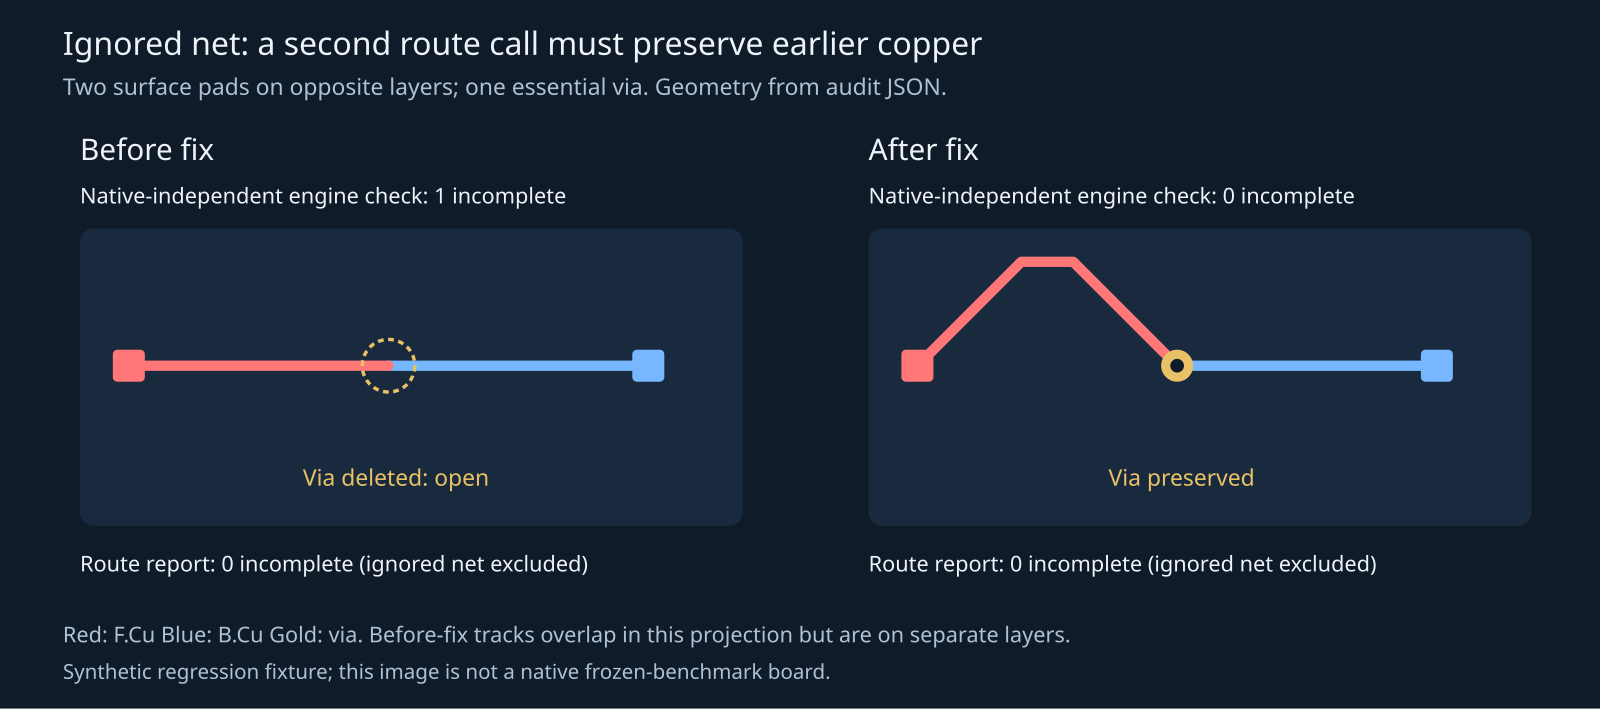
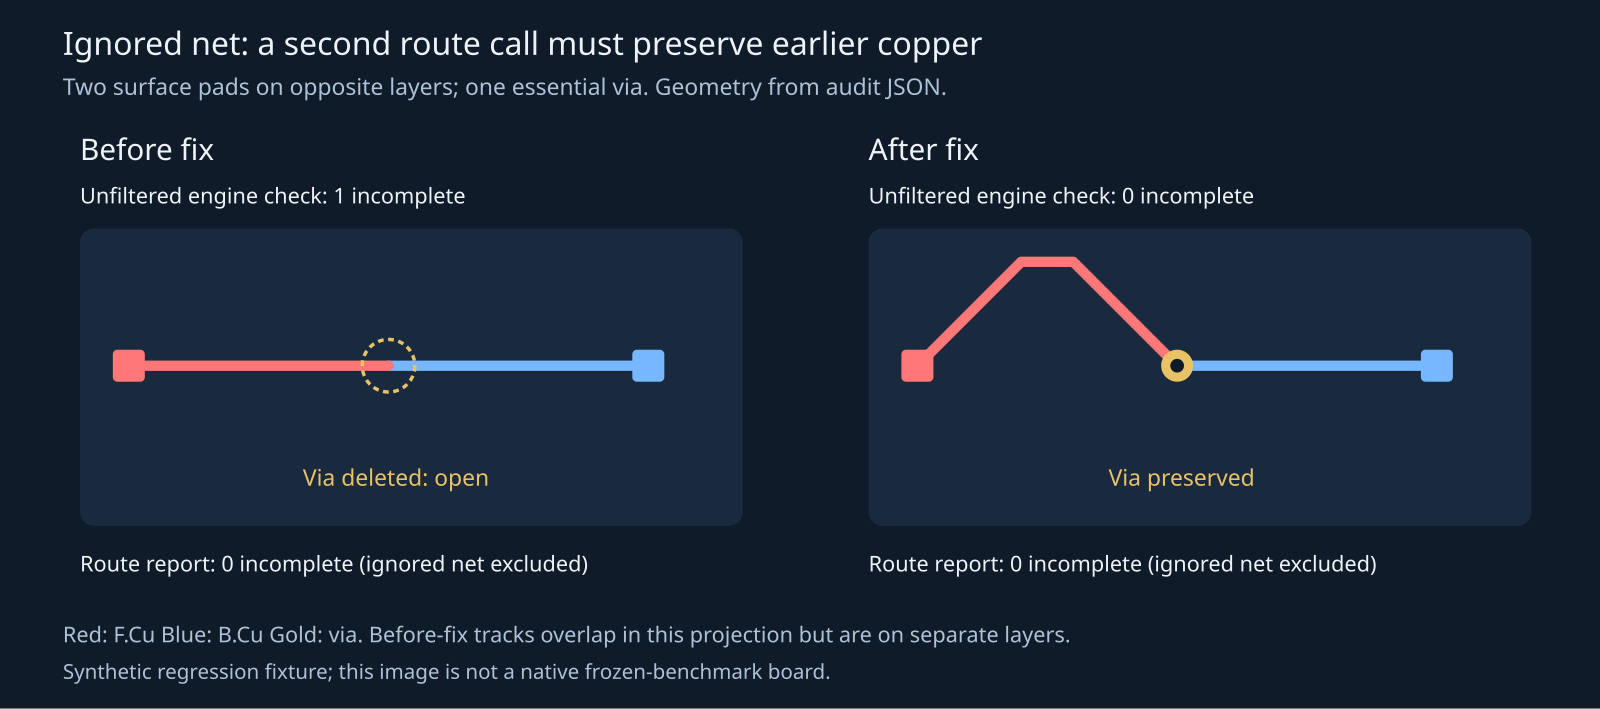
Document ignored net regression evidence and reproduction

Changed region(s): [[0.5312, 0.2482, 0.8438, 0.3103], [0.0625, 0.2482, 0.3438, 0.3103]]

diff --git a/docs/pr-assets/agent-fab-router-fix-ignored-optimisation/compare.py b/docs/pr-assets/agent-fab-router-fix-ignored-optimisation/compare.py
@@ -1,0 +1,37 @@
+"""python3 compare.py BASELINE_RUN CANDIDATE_RUN SOURCE_DIR OUTPUT_JSON"""
+import hashlib
+import json
+from pathlib import Path
+import statistics
+import sys
+
+before, after, source, output = map(Path, sys.argv[1:])
+controls = [json.loads((p / 'controls.json').read_text()) for p in (before, after)]
+for c in controls:
+    assert c['complete'] and c['controls_preserved'], 'incomplete or modified controls'
+for key in ('inputs_sha256', 'configs_sha256', 'harness_sha256', 'runtime_sha256', 'allowed_cpus', 'seeds', 'order'):
+    assert controls[0][key] == controls[1][key], key
+for name, expected in controls[1]['candidate']['source_sha256'].items():
+    assert hashlib.sha256((source / name).read_bytes()).hexdigest() == expected, name
+key = lambda r: (r['case'], r['seed'])
+a, b = [sorted(json.loads((p / 'results.json').read_text()), key=key) for p in (before, after)]
+assert len(a) == len(b) == 78
+assert [key(r) for r in a] == [key(r) for r in b]
+fields = ('passed', 'opens', 'new_errors', 'vias', 'length_mm')
+differences = [{'case': x['case'], 'seed': x['seed'], 'fields': {f: [x[f], y[f]] for f in fields if x[f] != y[f]}}
+               for x, y in zip(a, b) if any(x[f] != y[f] for f in fields)]
+assert not differences, differences
+
+def summary(rows):
+    return dict(runs=len(rows), passed=sum(r['passed'] for r in rows),
+                valid_cases_3of3=sum(all(r['passed'] for r in rows if r['case'] == c) for c in {r['case'] for r in rows}),
+                opens=sum(r['opens'] for r in rows), new_errors=sum(r['new_errors'] for r in rows),
+                median_route_s=statistics.median(r['seconds'] for r in rows))
+data = dict(baseline_source=controls[0]['candidate']['commit'], candidate_source='cd3ba3f',
+            candidate_recorded_head=controls[1]['candidate']['commit'],
+            source_hashes_verified=True, controls_matched=True, before=summary(a), after=summary(b), differences=differences,
+            source_sha256=controls[1]['candidate']['source_sha256'],
+            cases=[dict(case=c, before=summary([r for r in a if r['case'] == c]), after=summary([r for r in b if r['case'] == c]))
+                   for c in sorted({r['case'] for r in a})])
+output.write_text(json.dumps(data, indent=2) + '\n')
+print(json.dumps({k: data[k] for k in ('before', 'after', 'differences')}, indent=2))

diff --git a/docs/pr-assets/agent-fab-router-fix-ignored-optimisation/render.py b/docs/pr-assets/agent-fab-router-fix-ignored-optimisation/render.py
@@ -17,7 +17,7 @@ for i, name in enumerate(('before', 'after')):
     def xy(p):
         return ox + 270 + p['x'] / 220, 320 - p['y'] / 220
     label(ox, 140, 'Before fix' if i == 0 else 'After fix', 26)
-    label(ox, 178, f"Native-independent engine check: {state['incompletes']} incomplete", 19)
+    label(ox, 178, f"Unfiltered engine check: {state['incompletes']} incomplete", 19)
     svg.append(f'<rect x="{ox}" y="200" width="580" height="260" rx="12" fill="#1a2a3e"/>')
     for t in state['tracks']:
         points = ' '.join(f'{x:.2f},{y:.2f}' for x, y in map(xy, t['pts']))

diff --git a/docs/pr-assets/agent-fab-router-fix-ignored-optimisation/README.md b/docs/pr-assets/agent-fab-router-fix-ignored-optimisation/README.md
@@ -1,0 +1,81 @@
+# Preserve ignored nets during optimisation
+
+`ignoreNetGroups` promises that those nets' items remain on the board (N-07).
+When a Layout already contains free router copper from an earlier route call, the
+optimiser still visited its vias and tracks. Its incomplete-count guard excluded
+those same nets, so deleting their only inter-layer connection appeared safe.
+The route report also excluded the newly disconnected net. The fix skips ignored
+nets in both via elimination and track straightening, before any journal mutation.
+
+The committed synthetic fixture has two surface pads on opposite layers, two
+tracks and one essential via. It is independent of the frozen benchmark boards.
+Three identical runs against main each changed zero incompletes to one and removed
+the via; the candidate preserves every track/via record and zero incompletes in all
+three. Four regression tests cover via preservation, exact track geometry, active
+net optimisation and the public route API. The active control still shortens the
+bent track and preserves its essential via with zero violations.
+
+## Reproduce the regression and audits
+
+From the repository root, with Bun installed:
+
+```bash
+bun test test/ignored-optimisation.test.ts
+bun run typecheck && bun run check:layers && bun run test
+```
+
+To compare against main without editing this checkout (all paths below are under
+an existing scratch directory of your choice):
+
+```bash
+scratch="$HOME/bench/agents/codex-fabpcb-bugs/scratch/c12-reproduce"
+mkdir -p "$scratch/baseline"
+git archive 69cf598 | tar -x -C "$scratch/baseline"
+cp test/ignored-optimisation.test.ts "$scratch/baseline/test/"
+cp test/helpers/ignored-optimisation.ts "$scratch/baseline/test/helpers/"
+# Expected: 1 pass, 3 fail on main; 4 pass, 0 fail on the candidate.
+for repeat in 1 2 3; do
+  taskset -c 20-25 nice -n 10 bun test "$scratch/baseline/test/ignored-optimisation.test.ts"
+  taskset -c 20-25 nice -n 10 bun test test/ignored-optimisation.test.ts
+done
+assets=docs/pr-assets/agent-fab-router-fix-ignored-optimisation
+bun "$assets/audit.ts" "$scratch/baseline" "$scratch/before.json"
+bun "$assets/audit.ts" . "$scratch/after.json"
+python3 "$assets/render.py"
+```
+
+`before.json` / `after.json` retain all three public-API runs, their complete copper
+geometry and unfiltered connectivity checks. The image plots the first pair's
+actual track coordinates, with separate layer colours and the missing/preserved
+via. It is a regression illustration, not a native benchmark rendering.
+
+## Frozen native nonregression sweep
+
+From the integration worktree, without changing its frozen inputs or configuration:
+
+```bash
+cd "$HOME/bench/wt/fp-bugs"
+taskset -c 20-25 nice -n 10 timeout 2700 python3 benchmarks/autorouter/benchmark.py \
+  --router fab-router --fab-router-source "$HOME/bench/wt/fr-bugs" \
+  --out "$HOME/bench/agents/codex-fabpcb-bugs/scratch/c12-after-full"
+```
+
+The baseline is the completed `c1-before-full` main sweep on the same machine and
+cores, with the same 26 cases, three repeats, seeds, order, inputs, configuration,
+harness and runtime hashes. Candidate executable source is commit `cd3ba3f`;
+the harness recorded main HEAD because routing began before the source commit was
+created. The validator verifies every captured candidate source hash rather than
+relying on that HEAD field.
+
+```bash
+cd "$HOME/bench/wt/fr-bugs"
+python3 docs/pr-assets/agent-fab-router-fix-ignored-optimisation/compare.py \
+  "$HOME/bench/agents/codex-fabpcb-bugs/scratch/c1-before-full" \
+  "$HOME/bench/agents/codex-fabpcb-bugs/scratch/c12-after-full" . \
+  docs/pr-assets/agent-fab-router-fix-ignored-optimisation/benchmark-summary.json
+```
+
+This path normally imports file-origin retained copper, so the frozen sweep is
+nonregression coverage; the tiny repeated-call fixture exercises the repaired
+router-origin path. No frozen-board completion or thermal-preservation improvement
+is claimed. Shared-host timing with overlapping tests is descriptive only.
